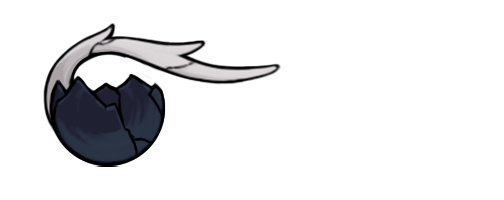
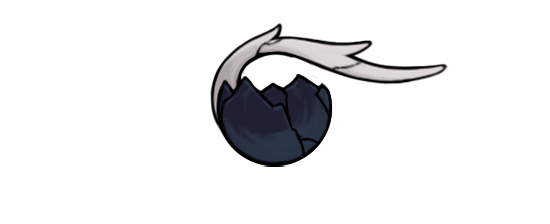
soul ui update + tutorialstrings (possibly push to 0.3.2) infection rework pending ChanneledBeam artwork

Changed region(s): [[0.0595, 0.09, 0.8333, 0.84]]

diff --git a/src/main/java/vesselmod/misc/SoulUI.java b/src/main/java/vesselmod/misc/SoulUI.java
@@ -13,21 +13,23 @@ import com.megacrit.cardcrawl.helpers.Hitbox;
 import com.megacrit.cardcrawl.helpers.ImageMaster;
 import com.megacrit.cardcrawl.helpers.TipHelper;
 
+import static vesselmod.VesselMod.resourcePath;
+
 public class SoulUI extends ClickableUIElement {
     public Hitbox hb;
     private FrameBuffer fbo;
-    private static float hb_w = 130.0F * Settings.scale;
-    private static float hb_h = 130.0F * Settings.scale;
-    private static float baseX = 60.0F * Settings.scale;
-    private static float baseY = 240.0F * Settings.scale;
-    private float x = baseX;
-    private float y = baseY;
-    private static int IMG_DIM = 256;
+    private static final float hb_w = 130.0F * Settings.scale;
+    private static final float hb_h = 130.0F * Settings.scale;
+    private static final float baseX = 30.0F * Settings.scale;
+    private static final float baseY = 195.0F * Settings.scale;
+    private final float x = baseX;
+    private final float y = baseY;
+    private static final int IMG_DIM = 256;
     private static int rotation;
     public static float fontScale = 1.0F;
     public static Texture SoulVesselBackground;
-    private static final Texture BrokenVessel = ImageMaster.loadImage("vesselmod/misc/soul_meter_broken.png");
-    private static final Texture PureVessel = ImageMaster.loadImage("vesselmod/misc/soul_meter_gm.png");
+    private static final Texture BrokenVessel = ImageMaster.loadImage(resourcePath("misc/soul_meter_broken.png"));
+    private static final Texture PureVessel = ImageMaster.loadImage(resourcePath("misc/soul_meter_gm.png"));
 
 
     private static Texture loadVessel() {
@@ -42,38 +44,52 @@ public class SoulUI extends ClickableUIElement {
         super(image, baseX, baseY , hb_w, hb_h);
         this.image = image;
         SoulVesselBackground = loadVessel();
-        hb = new Hitbox(x * 0.5f, y * 0.2f, hb_w, hb_h); //y this no worky
+        hb = new Hitbox(x, y, hb_w, hb_h); //square hitbox for the soul vessel, honestly no idea what the x y does here
         //this.fbo = new FrameBuffer(Pixmap.Format.RGBA8888, IMG_DIM, IMG_DIM, false, false);
         this.setClickable(false);
     }
     public void render(SpriteBatch sb, float current_x){
-        //rotation += 1;
-        //updateHitboxPosition(x, y);
-        /*sb.setBlendFunction(770, 1);
-        if (SoulMechanics.soulLimit > 0 ){
-            sb.draw(image, this.x - (float) image.getWidth() / 2.0F, this.y - (float) image.getWidth() / 2.5F, (float) image.getWidth() / 2.0F, (float)image.getHeight() / 2.0F,
-                    (float)image.getHeight(), (float) image.getHeight(), 2.0f * Settings.scale, 2.0f * Settings.scale, rotation,0,0,45,46,false,false);
-        }*/
-        sb.setBlendFunction(770, 771);
         SoulVesselBackground = loadVessel();
 
         if (SoulMechanics.soulLimit > 0) {
-            sb.draw(SoulVesselBackground, this.x - (float) image.getWidth(), this.y - (float) image.getHeight() / 1.2f, (float) SoulVesselBackground.getWidth() / 2.0F, (float) SoulVesselBackground.getHeight() / 2.0F,
-                    (float) SoulVesselBackground.getWidth(), (float) SoulVesselBackground.getHeight(), 0.9f * Settings.scale, 0.9f * Settings.scale, 0, 0, 0, 504, 200, false, false);
-            FontHelper.renderFontCentered(sb, FontHelper.energyNumFontBlue, SoulMechanics.soulCount + "/" + SoulMechanics.soulLimit,  current_x + x - baseX * 2.78f, y * Settings.scale * 1.185f, Color.WHITE, fontScale);
+            sb.draw(
+                    SoulVesselBackground,
+                    this.x + 55f * Settings.scale - SoulVesselBackground.getWidth() / 2F,
+                    this.y + 50f * Settings.scale - SoulVesselBackground.getHeight() / 2F,
+                    SoulVesselBackground.getWidth() / 2F,
+                    SoulVesselBackground.getHeight() / 2F,
+                    (float) SoulVesselBackground.getWidth(),
+                    (float) SoulVesselBackground.getHeight(),
+                    Settings.scale,
+                    Settings.scale,
+                    0,
+                    0,
+                    0,
+                    SoulVesselBackground.getWidth(),
+                    SoulVesselBackground.getHeight(),
+                    false,
+                    false); //the vessel image
 
-            /*FontHelper.renderFontCentered(sb, FontHelper.energyNumFontBlue, "" + SoulMechanics.soulCount, current_x + (x-image.getWidth()/5.5f) - baseX * 1.82f, y * Settings.scale * 1.04f, Color.WHITE, fontScale);
-            FontHelper.renderFontCentered(sb, FontHelper.energyNumFontBlue, "" + SoulMechanics.soulLimit, current_x + (x+image.getWidth()/5.5f) - baseX * 1.82f, y * Settings.scale * 1.04f, Color.WHITE, fontScale); */
+            FontHelper.renderFontCentered(
+                    sb,
+                    FontHelper.energyNumFontBlue,
+                    SoulMechanics.soulCount + "/" + SoulMechanics.soulLimit,
+                    x + 55f * Settings.scale,
+                    y + 50f * Settings.scale,
+                    Color.WHITE,
+                    fontScale); //the soul count
 
         }
     }
 
     /*private void updateHitboxPosition(float x, float y){
-        hb.translate(x * 0.4f, y * 0.3f);
-    } */
+        hb.translate(x - 150f * Settings.scale, y - 130f * Settings.scale);
+    }
+     */
+
     @Override
     protected void onHover() {
-        TipHelper.renderGenericTip(x - Settings.scale * 50f, y + Settings.scale * 175f, BaseMod.getKeywordTitle("vesselmod:soul_vessel"), BaseMod.getKeywordDescription("vesselmod:soul_vessel"));
+        TipHelper.renderGenericTip(x - Settings.xScale * 20f, y + Settings.yScale * 250f, BaseMod.getKeywordTitle("vesselmod:soul_vessel"), BaseMod.getKeywordDescription("vesselmod:soul_vessel")); //popup text
     }
 
     @Override

diff --git a/src/main/java/vesselmod/cards/uncommon/ChanneledBeam.java b/src/main/java/vesselmod/cards/uncommon/ChanneledBeam.java
@@ -1,11 +1,10 @@
 package vesselmod.cards.uncommon;
 
-import com.megacrit.cardcrawl.actions.AbstractGameAction;
-import com.megacrit.cardcrawl.actions.common.DamageAction;
+import com.megacrit.cardcrawl.actions.common.ApplyPowerAction;
 import com.megacrit.cardcrawl.actions.common.ReducePowerAction;
 import com.megacrit.cardcrawl.cards.AbstractCard;
-import com.megacrit.cardcrawl.cards.DamageInfo;
 import com.megacrit.cardcrawl.characters.AbstractPlayer;
+import com.megacrit.cardcrawl.dungeons.AbstractDungeon;
 import com.megacrit.cardcrawl.monsters.AbstractMonster;
 import vesselmod.cards.BaseCard;
 import vesselmod.character.Vessel;
@@ -17,9 +16,9 @@ import static vesselmod.VesselMod.makeID;
 public class ChanneledBeam extends BaseCard {
     private final static CardInfo cardInfo = new CardInfo(
             "ChanneledBeam", //Card ID
-            2, //base cost [-1 = X, -2 = unplayable]
-            CardType.ATTACK, //[ATTACK/SKILL/POWER/CURSE/STATUS]
-            CardTarget.ENEMY, //[ENEMY/ALL_ENEMY]
+            1, //base cost [-1 = X, -2 = unplayable]
+            CardType.SKILL, //[ATTACK/SKILL/POWER/CURSE/STATUS]
+            CardTarget.ALL_ENEMY, //[ENEMY/ALL_ENEMY]
             CardRarity.UNCOMMON, //[BASIC/COMMON/UNCOMMON/RARE/SPECIAL(event)/CURSE]
             Vessel.Enums.CARD_COLOR);
 
@@ -27,16 +26,24 @@ public class ChanneledBeam extends BaseCard {
 
     public ChanneledBeam() {
         super(cardInfo);
-        setDamage(14, 6);
-        setMagic(1,1);
+        setCostUpgrade(0);
+        setExhaust(true,true);
     }
 
     @Override
     public void use(AbstractPlayer p, AbstractMonster m) {
+        int playerInfection = 0;
         if (p.hasPower(InfectionPower.POWER_ID)) {
+            playerInfection = p.getPower(InfectionPower.POWER_ID).amount;
             this.addToBot(new ReducePowerAction(p, p, InfectionPower.POWER_ID, p.getPower(InfectionPower.POWER_ID).amount));
         }
-        this.addToBot(new DamageAction(m, new DamageInfo(p, damage, DamageInfo.DamageType.NORMAL), AbstractGameAction.AttackEffect.LIGHTNING));
+        if (playerInfection > 0) {
+            for (AbstractMonster monster : AbstractDungeon.getMonsters().monsters) {
+                if (!monster.isDead && !monster.isDying) {
+                    this.addToBot(new ApplyPowerAction(monster, p, new InfectionPower(monster, p, playerInfection), playerInfection));
+                }
+            }
+        }
     }
     @Override
     public AbstractCard makeCopy() {

diff --git a/src/main/java/vesselmod/cards/uncommon/DashSlash.java b/src/main/java/vesselmod/cards/uncommon/DashSlash.java
@@ -2,12 +2,13 @@ package vesselmod.cards.uncommon;
 
 import com.megacrit.cardcrawl.actions.AbstractGameAction;
 import com.megacrit.cardcrawl.actions.animations.VFXAction;
+import com.megacrit.cardcrawl.actions.common.ApplyPowerAction;
 import com.megacrit.cardcrawl.actions.common.DamageAllEnemiesAction;
-import com.megacrit.cardcrawl.actions.common.DrawCardAction;
 import com.megacrit.cardcrawl.actions.utility.SFXAction;
 import com.megacrit.cardcrawl.cards.AbstractCard;
 import com.megacrit.cardcrawl.characters.AbstractPlayer;
 import com.megacrit.cardcrawl.monsters.AbstractMonster;
+import com.megacrit.cardcrawl.powers.DrawCardNextTurnPower;
 import com.megacrit.cardcrawl.vfx.combat.CleaveEffect;
 import vesselmod.cards.BaseCard;
 import vesselmod.character.Vessel;
@@ -29,8 +30,8 @@ public class DashSlash extends BaseCard {
 
     public DashSlash() {
         super(cardInfo);
-        setDamage(13, 2);
-        setMagic(1,1);
+        setDamage(11, 4);
+        setMagic(2,0);
         tags.add(CustomTags.SLASH);
         this.isMultiDamage = true;
     }
@@ -40,7 +41,7 @@ public class DashSlash extends BaseCard {
         this.addToBot(new SFXAction("ATTACK_HEAVY"));
         this.addToBot(new VFXAction(p, new CleaveEffect(), 0.1F));
         this.addToBot(new DamageAllEnemiesAction(p, this.multiDamage, this.damageTypeForTurn, AbstractGameAction.AttackEffect.NONE));
-        this.addToBot(new DrawCardAction(this.magicNumber));
+        this.addToBot(new ApplyPowerAction(p, p, new DrawCardNextTurnPower(p, this.magicNumber), this.magicNumber));
     }
 
     @Override

diff --git a/src/main/java/vesselmod/cards/rare/InfectedWall.java b/src/main/java/vesselmod/cards/rare/InfectedWall.java
@@ -5,7 +5,7 @@ import com.megacrit.cardcrawl.actions.common.GainBlockAction;
 import com.megacrit.cardcrawl.cards.AbstractCard;
 import com.megacrit.cardcrawl.characters.AbstractPlayer;
 import com.megacrit.cardcrawl.monsters.AbstractMonster;
-import com.megacrit.cardcrawl.powers.MetallicizePower;
+import com.megacrit.cardcrawl.powers.NextTurnBlockPower;
 import vesselmod.cards.BaseCard;
 import vesselmod.character.Vessel;
 import vesselmod.powers.InfectionPower;
@@ -35,8 +35,7 @@ public class InfectedWall extends BaseCard {
 
         if (p.hasPower(InfectionPower.POWER_ID)) {
         int infectionStacks = p.getPower(InfectionPower.POWER_ID).amount;
-        this.addToBot(new ApplyPowerAction(p, p, new MetallicizePower(p, 2 * infectionStacks)));
-
+            this.addToBot(new ApplyPowerAction(p, p, new NextTurnBlockPower(p, infectionStacks), infectionStacks));
         }
     }
 

diff --git a/src/main/java/vesselmod/actions/InfectionLoseHpAction.java b/src/main/java/vesselmod/actions/InfectionLoseHpAction.java
@@ -36,9 +36,9 @@ public class InfectionLoseHpAction extends AbstractGameAction {
                     this.target.tint.changeColor(Color.WHITE.cpy());
                     if (this.target == AbstractDungeon.player && this.amount > 2 && AbstractDungeon.player.hasRelic(KingsBrand.ID)) {
                         AbstractDungeon.player.getRelic(KingsBrand.ID).flash();
-                        this.target.damage(new DamageInfo(this.source, 2, DamageInfo.DamageType.HP_LOSS));
+                        this.target.damage(new DamageInfo(this.source, 2, DamageInfo.DamageType.THORNS));
                     } else {
-                        this.target.damage(new DamageInfo(this.source, this.amount, DamageInfo.DamageType.HP_LOSS));
+                        this.target.damage(new DamageInfo(this.source, this.amount, DamageInfo.DamageType.THORNS));
                     }
                 }
 

diff --git a/src/main/java/vesselmod/cards/uncommon/RadiantBurst.java b/src/main/java/vesselmod/cards/uncommon/RadiantBurst.java
@@ -27,13 +27,14 @@ public class RadiantBurst extends BaseCard {
 
     public RadiantBurst() {
         super(cardInfo);
-        setMagic(4, 3);
+        setMagic(6, 3);
         tags.add(CustomTags.INFECT);
         setExhaust(true,true);
     }
 
     @Override
     public void use(AbstractPlayer p, AbstractMonster m) {
+        this.addToBot(new ApplyPowerAction(p, p, new InfectionPower(p, p, 2),2));
         if (!AbstractDungeon.getMonsters().areMonstersBasicallyDead()) {
             this.flash();
 

diff --git a/src/main/java/vesselmod/cards/rare/Mapping.java b/src/main/java/vesselmod/cards/rare/Mapping.java
@@ -14,7 +14,7 @@ import static vesselmod.VesselMod.makeID;
 public class Mapping extends BaseCard {
     private final static CardInfo cardInfo = new CardInfo(
             "Mapping", //Card ID
-            0, //base cost [-1 = X, -2 = unplayable]
+            1, //base cost [-1 = X, -2 = unplayable]
             CardType.POWER, //[ATTACK/SKILL/POWER/CURSE/STATUS]
             CardTarget.SELF, //[ENEMY/ALL_ENEMY]
             CardRarity.RARE, //[BASIC/COMMON/UNCOMMON/RARE/SPECIAL(event)/CURSE]

diff --git a/src/main/java/vesselmod/cards/uncommon/NoCostTooGreat.java b/src/main/java/vesselmod/cards/uncommon/NoCostTooGreat.java
@@ -29,8 +29,8 @@ public class NoCostTooGreat extends BaseCard {
 
     @Override
     public void use(AbstractPlayer p, AbstractMonster m) {
-        this.addToBot(new ApplyPowerAction(p, p, new InfectionPower(p, p, 2), 2));
-        this.addToBot(new GainEnergyAction(magicNumber));
+        this.addToBot(new ApplyPowerAction(p, p, new InfectionPower(p, p, 4), 4));
+        this.addToBot(new GainEnergyAction(this.magicNumber));
     }
     @Override
     public AbstractCard makeCopy() {

diff --git a/src/main/java/vesselmod/cards/uncommon/DesolateDive.java b/src/main/java/vesselmod/cards/uncommon/DesolateDive.java
@@ -36,7 +36,7 @@ public class DesolateDive extends BaseCard {
         tags.add(CustomTags.SPELL);
         tags.add(CustomTags.COST_SOUL);
         DamageModifierManager.addModifier(this, new SpellDamage());
-        setSoulCost(3, 0);
+        setSoulCost(2, 0);
         isMultiDamage = true;
     }
 
